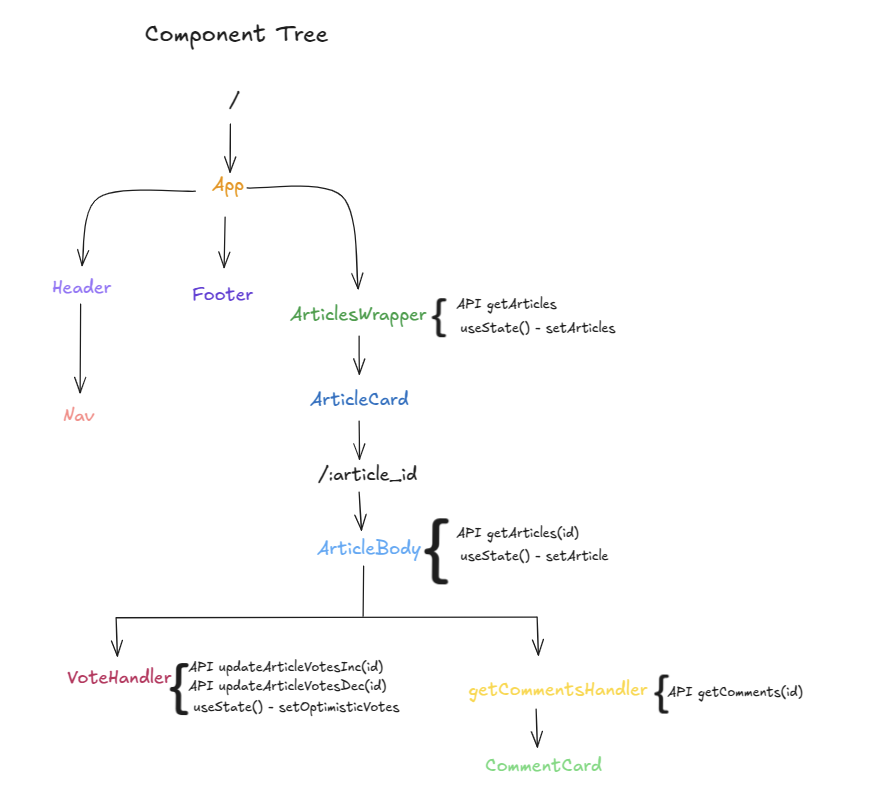
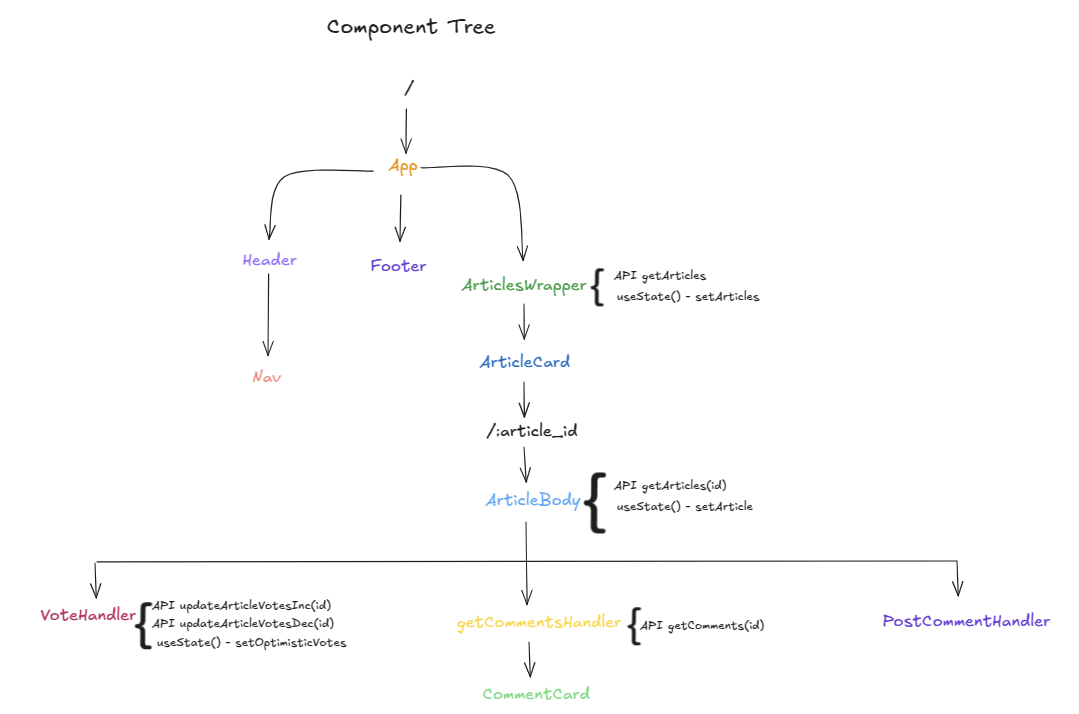
ticket-6-post-comment-to-article

diff --git a/src/components/PostCommentHandler.jsx b/src/components/PostCommentHandler.jsx
@@ -1,0 +1,47 @@
+import { postComment } from "../api";
+import { useState, useEffect } from 'react';
+
+const PostCommentHandler = ({  article_id }) => {
+
+  const [commentInput, setCommentInput] = useState('');
+
+  const [successfulCommentMessage, setSuccessfulCommentMessage] = useState(false)
+
+  // useEffect(() => {
+  //   setSuccessfulCommentMessage(false)
+  // })
+
+
+  const handleChange = (event) => {
+    // event.preventDefault();
+    setCommentInput(event.target.value)
+  }
+
+
+  const handleSubmit = (event) => {
+    setSuccessfulCommentMessage(false)
+
+    event.preventDefault();
+    postComment(article_id.article_id, commentInput)
+    setSuccessfulCommentMessage(true)
+    setCommentInput(() => {
+      return ""
+    })
+  }
+
+  if (successfulCommentMessage === true) return <p>Successfully commented!</p>
+
+  return (
+    <section className="post-comment-form">
+      <form onSubmit={handleSubmit}>
+        <label>Post Comment..
+          <input type="text" onChange={handleChange} value={commentInput}></input>
+        </label>
+        <button type="submit">Post</button>
+      </form>
+      <p>{}</p>
+    </section>
+  )
+}
+
+export default PostCommentHandler

diff --git a/src/components/ArticleBody.jsx b/src/components/ArticleBody.jsx
@@ -4,6 +4,7 @@ import { useState, useEffect } from 'react';
 import { RingLoader } from 'react-spinners';
 import GetCommentsHandler from "./GetCommentsHandler";
 import VoteHandler from "./VoteHandler";
+import PostCommentHandler from "./PostCommentHandler";
 
 
 function ArticleBody() {
@@ -41,6 +42,7 @@ function ArticleBody() {
         <p className="article-body">{article.body}</p>
         <VoteHandler article_id={article} />
         <h3 className="comment-count">Comments: {article.comment_count}</h3>
+        <PostCommentHandler article_id={article} />
         <GetCommentsHandler article={article} />
       </section>
     </>

diff --git a/src/api.js b/src/api.js
@@ -32,4 +32,11 @@ function updateArticleVotesDec(id) {
     return api.patch(`/articles/${id}`, {inc_votes: -1})
 }
 
-export { getArticles, getArticleById, getComments, updateArticleVotesInc, updateArticleVotesDec };
+function postComment(id, commentInput) {
+    return api.post(`articles/${id}/comments`, {
+        username: 'jessjelly',
+        body: `${commentInput}`
+      })
+}
+
+export { getArticles, getArticleById, getComments, updateArticleVotesInc, updateArticleVotesDec, postComment };
